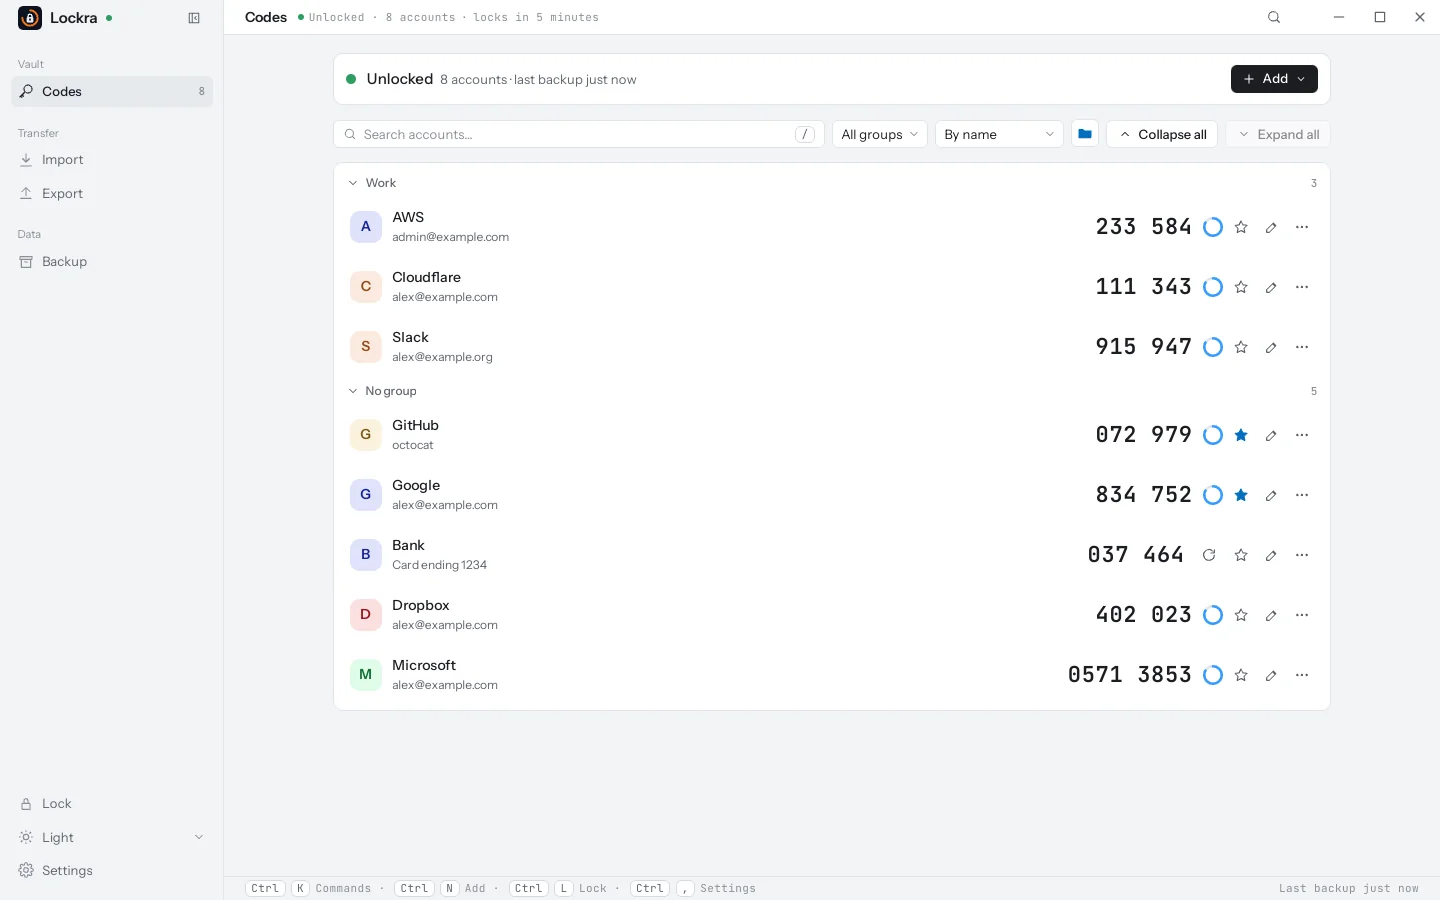
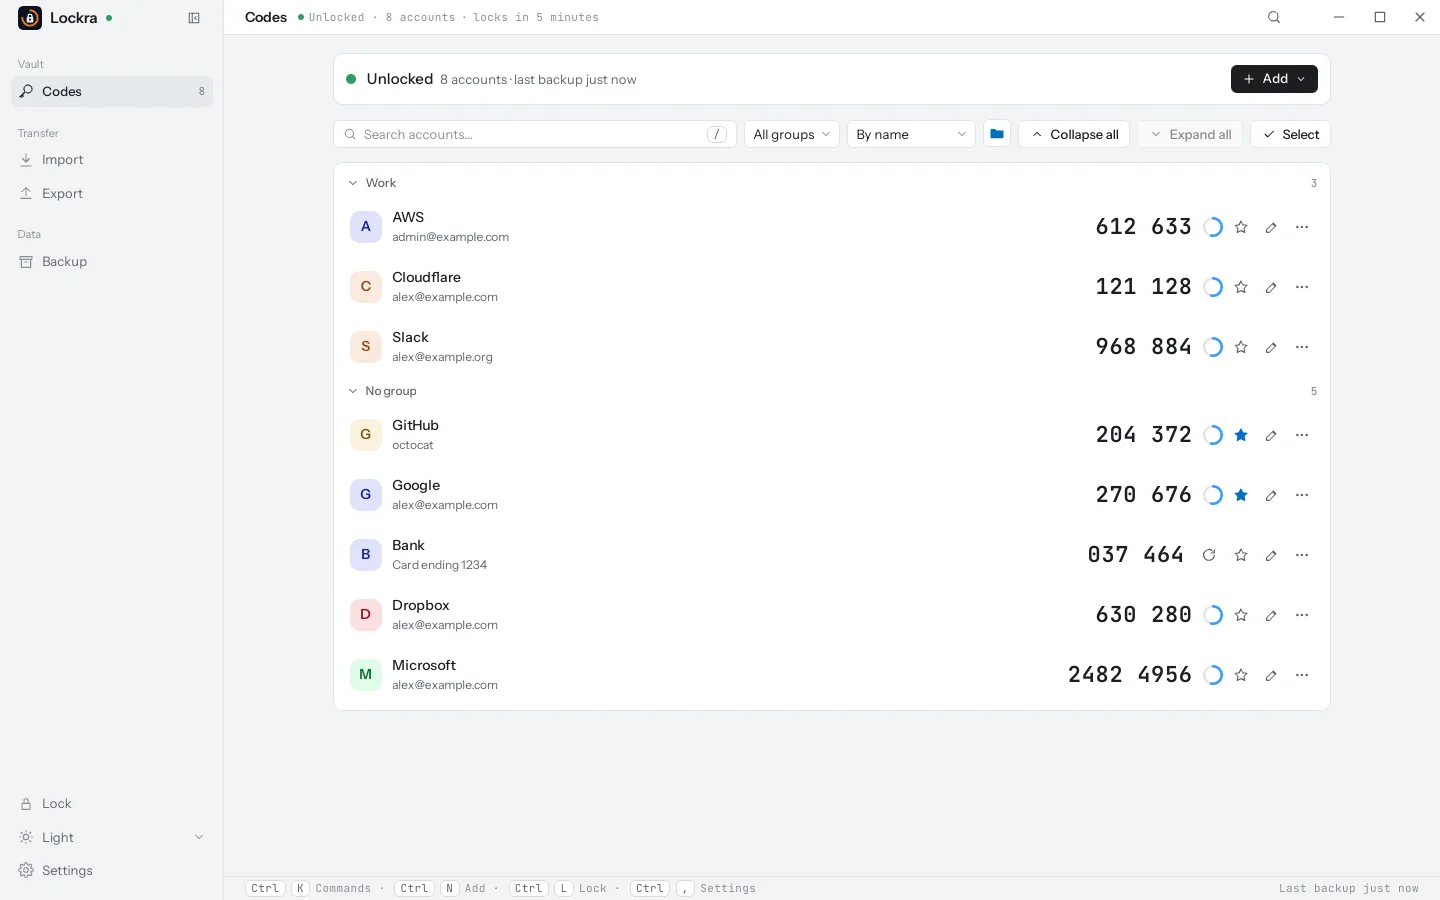
docs(lockra): sync from lockra@9c6ae1e
Source: https://github.com/sunerpy/lockra/commit/9c6ae1e815032e2f0c80d01abe025b60527b2a9e

diff --git a/lockra/src/dev/release.md b/lockra/src/dev/release.md
@@ -226,9 +226,11 @@ What the automated gates cannot cover, before announcing a release:
    accounts arrive, work accounts are listed as unsupported.
 6. **Linux keychain**: on GNOME (Secret Service) and KDE, turn on _Remember on this device_,
    restart, unlock with it.
-7. **Touch ID** (a Mac with Touch ID): turn on _Remember on this device_, then _Ask for Touch ID to
-   unlock_ (the prompt comes once); lock; _Unlock with Touch ID_ opens the vault after the
-   fingerprint, a cancelled prompt leaves it locked without a message, the master password still
-   unlocks; turning the switch off asks for the master password.
+7. **Touch ID** (a Mac with Touch ID): locked with nothing set up, the unlock screen points to
+   _Settings › Security_; there, with _Remember on this device_ off, turn on _Unlock with Touch ID_
+   (the prompt comes once, and _Remember on this device_ turns on with it); lock; _Unlock with Touch
+   ID_ opens the vault after the fingerprint, a cancelled prompt leaves it locked without a message,
+   the master password still unlocks; turning the switch off asks for the master password and leaves
+   _Remember on this device_ on.
 8. **Windows Hello** (a PC with Windows Hello): the same steps; the Hello dialog comes up in front of
    Lockra, and its PIN is accepted as well as a fingerprint or the face.

diff --git a/lockra/src/zh/security/index.md b/lockra/src/zh/security/index.md
@@ -24,6 +24,8 @@
 
 在带 Touch ID 的 Mac 或支持 Windows Hello 的 Windows 电脑上，开启「在本机记住」后，再开启「设置 › 安全 › 解锁时验证 Touch ID」（Windows 上为「解锁时验证 Windows Hello」）。解锁页随即显示「使用 Touch ID 解锁」（或「使用 Windows Hello 解锁」）：先验证你的指纹，或 Windows Hello 的指纹、面容或 PIN，再用本机记住的密钥打开保险库。开启时会验证一次，确认可以使用；关闭时需要输入主密码。主密码始终可以解锁。
 
+<StatusTag status="building" /> 自 0.6.0 版起，这个开关改名为「使用 Touch ID 解锁」（Windows 上为「使用 Windows Hello 解锁」），并且在「在本机记住」开启之前就会显示：开启时验证一次，同时开启「在本机记住」。在支持 Touch ID 或 Windows Hello、但尚未开启的电脑上，解锁页会提示开关的位置。
+
 在 Windows 上，如果解锁的那一刻 Windows Hello 恰好不可用（例如另一个应用正在显示 Windows Hello 窗口），Windows 会改为要求输入你的 Windows 登录密码。
 
 这项验证防范的是有人使用你已登录的电脑。以你的身份运行的程序仍然可以从钥匙串中读取本机记住的密钥，与不开启验证时相同。

diff --git a/lockra/src/dev/security.md b/lockra/src/dev/security.md
@@ -28,7 +28,10 @@ The HTTP client and TLS stack reach the desktop build only through tauri-plugin-
   `LOCKRA_DEV_SECRET_STORE=memory`, for headless test runs).
 - **Touch ID or Windows Hello first** (macOS, Windows): with "remember on this device" on, the
   device slot can ask the platform to check the user before its key is used. Turning it on passes
-  one check; turning it off takes the master password. The check is Lockra's, made before the
+  one check; with "remember on this device" off, it is turned on as well, the slot and its check in
+  the same write, so the remembered key never exists without the check (no fingerprint is asked for
+  when the keychain cannot take the key). Turning it off takes the master password and leaves
+  "remember on this device" on, as its own switch shows. The check is Lockra's, made before the
   keychain is read: it stops someone at the unlocked computer, not a program running as the user,
   which could read the keychain item itself. It is recorded in the vault's header (formats §1), so
   a file edited to skip it no longer opens, and a settings file cannot turn it off. The prompt's

diff --git a/lockra/src/zh/accounts/codes.md b/lockra/src/zh/accounts/codes.md
@@ -44,6 +44,12 @@
 
 每行 ⋯ 按钮的左侧有星形按钮，用于收藏或取消收藏账号；铅笔按钮用于打开「编辑…」。在某一行上点击右键，或选中某一行后按菜单键或 Shift F10，会在原处打开与 ⋯ 相同的菜单。
 
+## 批量选择
+
+<StatusTag status="building" /> 随 0.6.0 版提供。
+
+点击排序菜单旁的「选择」，或在账号的菜单中选择「选择」，即可勾选账号：点击某一行或在该行上按空格键；勾选分组标题前的方框，选中该分组的全部账号；点击「全选」，选中当前搜索和分组菜单显示的全部账号。之后点击「移到分组…」，一次把勾选的账号移到同一个分组：输入或选择分组名称，留空则移出分组。点击「完成」或按 Esc 键退出，不做任何更改。
+
 ## 排序
 
 排序菜单可以按名称、最近添加或最近使用排列列表。无论哪种排序，收藏的账号都排在最前。

diff --git a/lockra/src/accounts/codes.md b/lockra/src/accounts/codes.md
@@ -68,6 +68,16 @@ Beside each row's ⋯ button, a star pins the account to the top (or unpins it) 
 **Edit…**. Right-click a row, or press the context-menu key or Shift F10 on a selected row, to open
 the same menu as ⋯ where you are.
 
+## Selecting several accounts
+
+<StatusTag status="building" /> Comes with version 0.6.0.
+
+Click **Select** beside the sort menu, or choose **Select** in an account's menu, to tick accounts:
+click a row or press Space on it, tick a section's box for all of its accounts, or click **Select
+all** for every account the search and the group menu show. **Move to group…** then puts the ticked
+accounts in one group in a single step: type a group or pick one, or leave it empty to take them out
+of their groups. **Done**, or Esc, leaves without changing anything.
+
 ## Order
 
 The sort menu orders the list by name, by the most recently added, or by the most recently used.

diff --git a/lockra/src/security/index.md b/lockra/src/security/index.md
@@ -41,6 +41,11 @@ your fingerprint, or Windows Hello's fingerprint, face or PIN, is checked before
 opens the vault. Turning it on checks once that it works; turning it off asks for the master
 password. The master password always unlocks.
 
+<StatusTag status="building" /> From version 0.6.0 the switch is called **Unlock with Touch ID**
+(**Unlock with Windows Hello**) and is offered before **Remember on this device** is on: turning it
+on checks once and turns **Remember on this device** on with it. On a computer that has Touch ID or
+Windows Hello but has not turned it on, the unlock screen says where to find the switch.
+
 On Windows, if Windows Hello becomes unavailable at the moment you unlock (for example while another
 app shows its own Windows Hello prompt), Windows asks for your Windows sign-in password instead.
 
